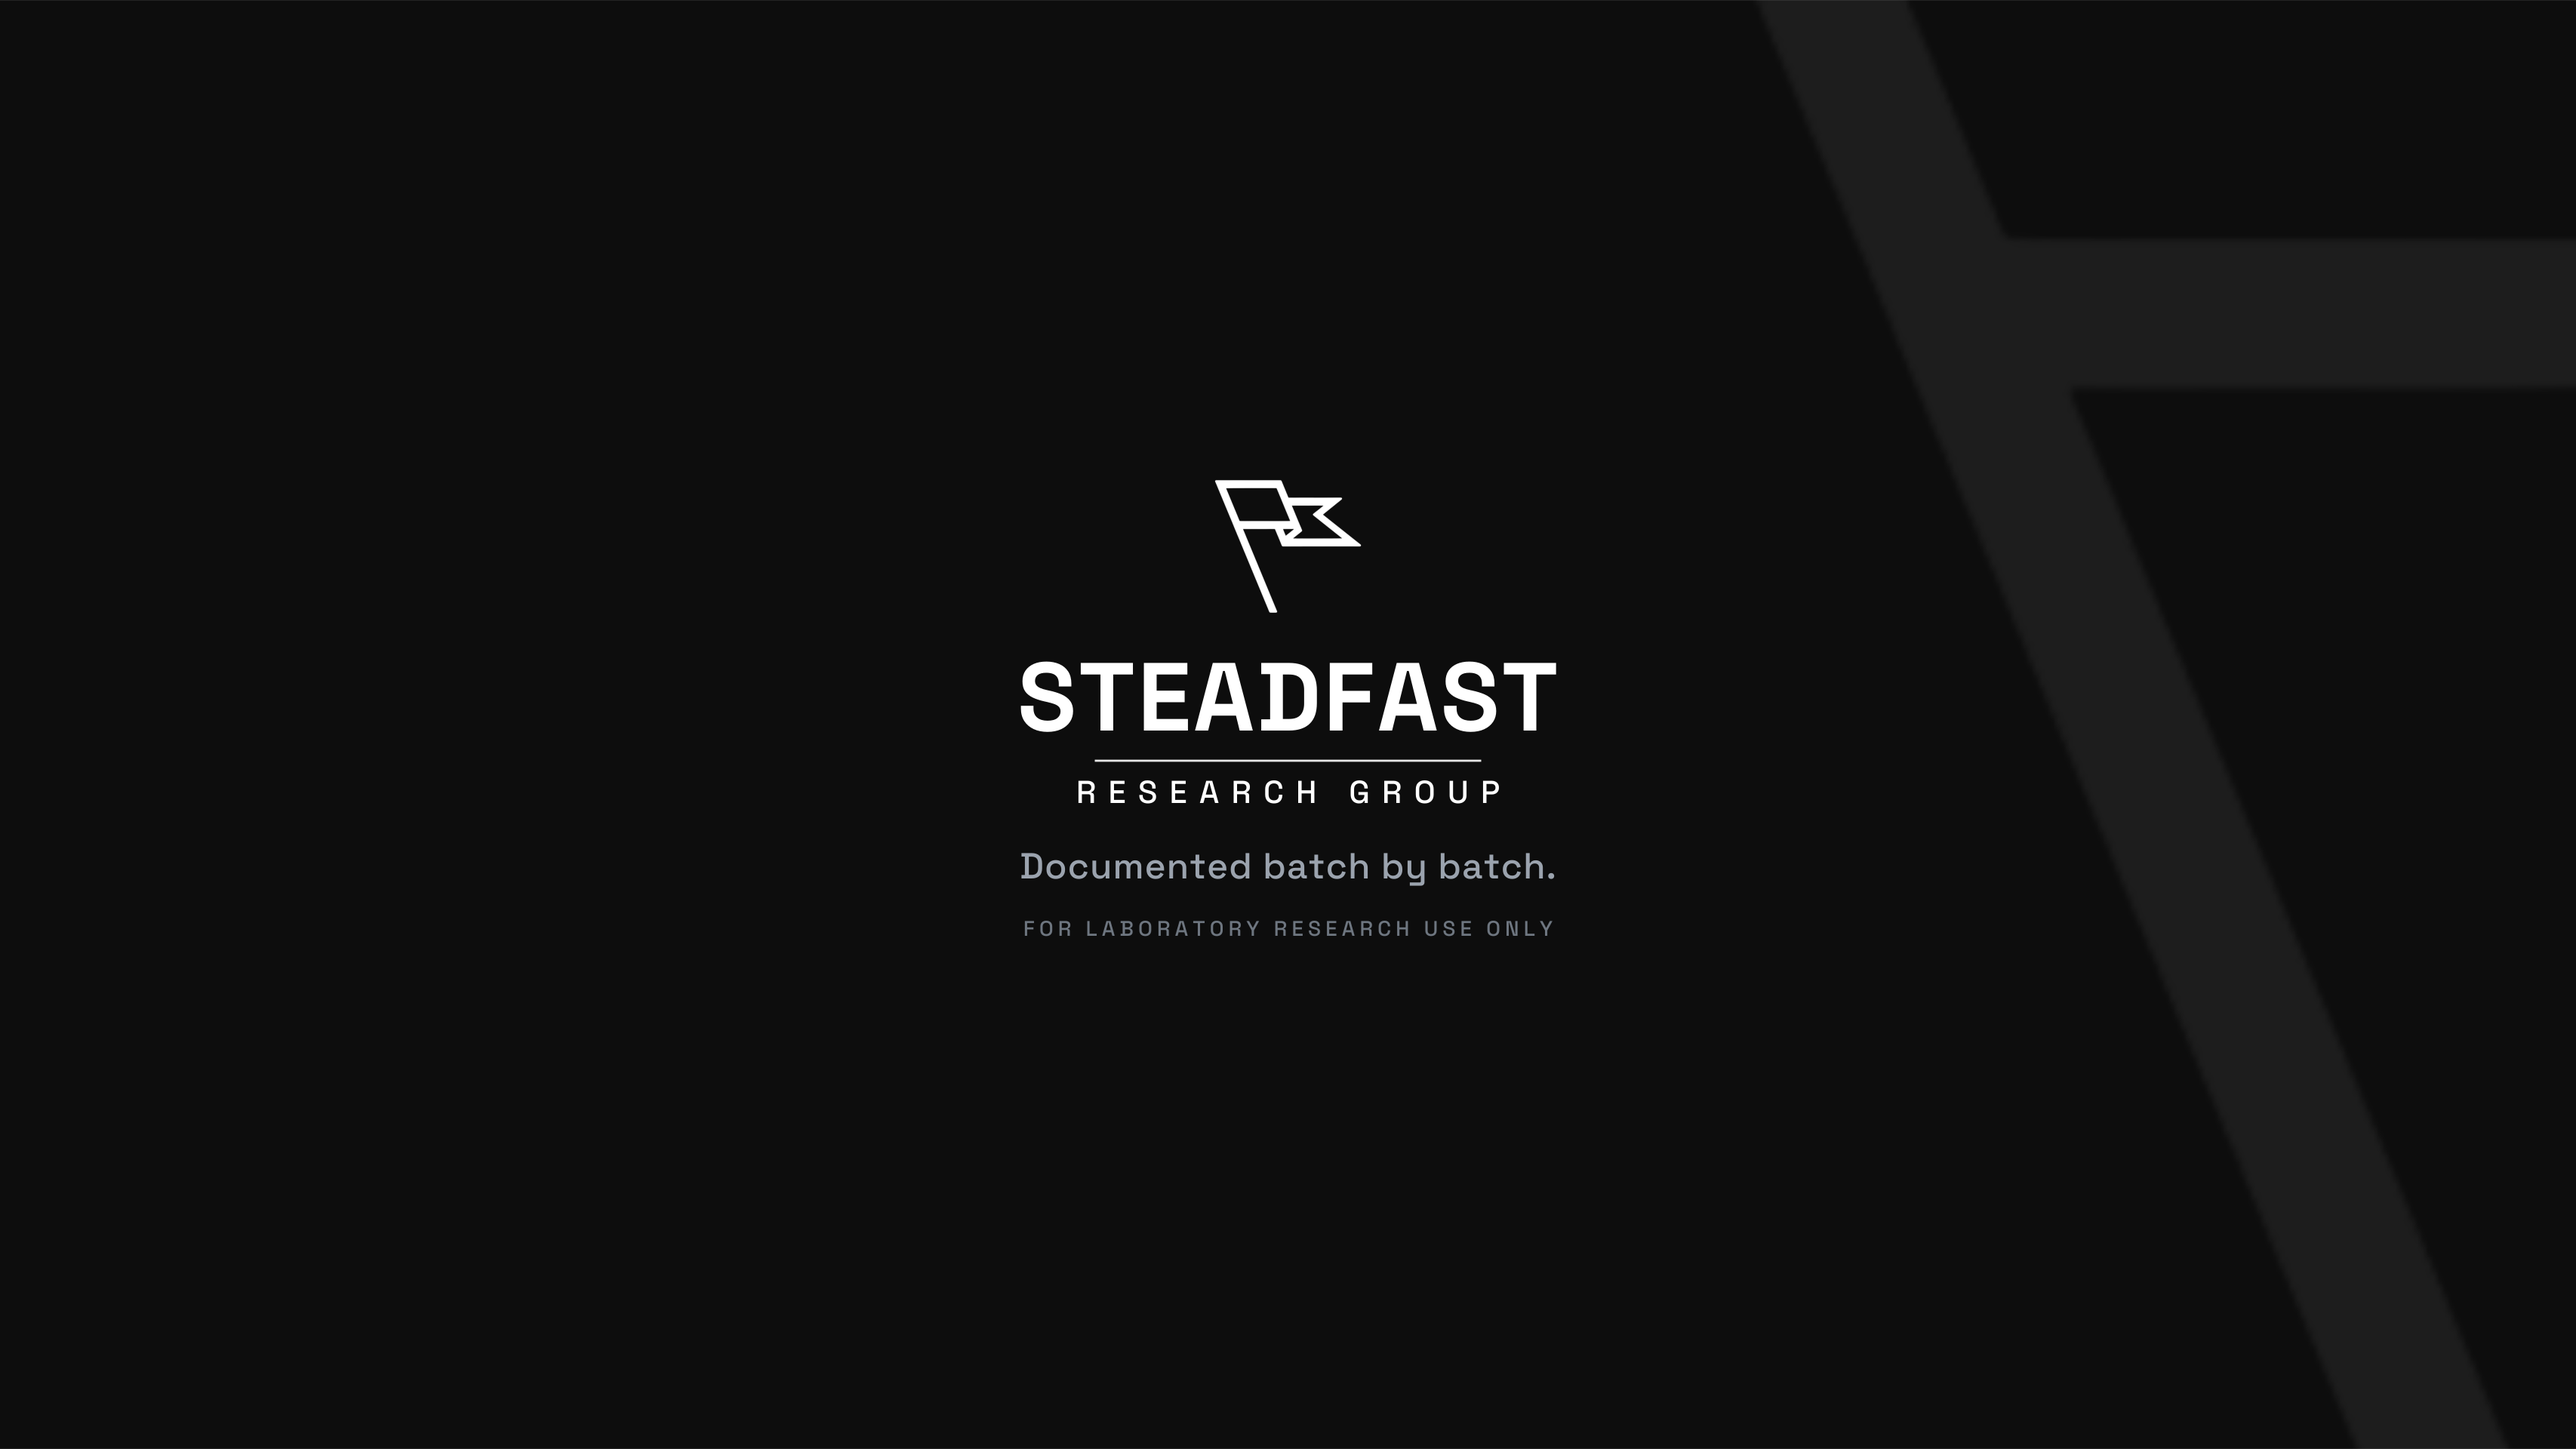
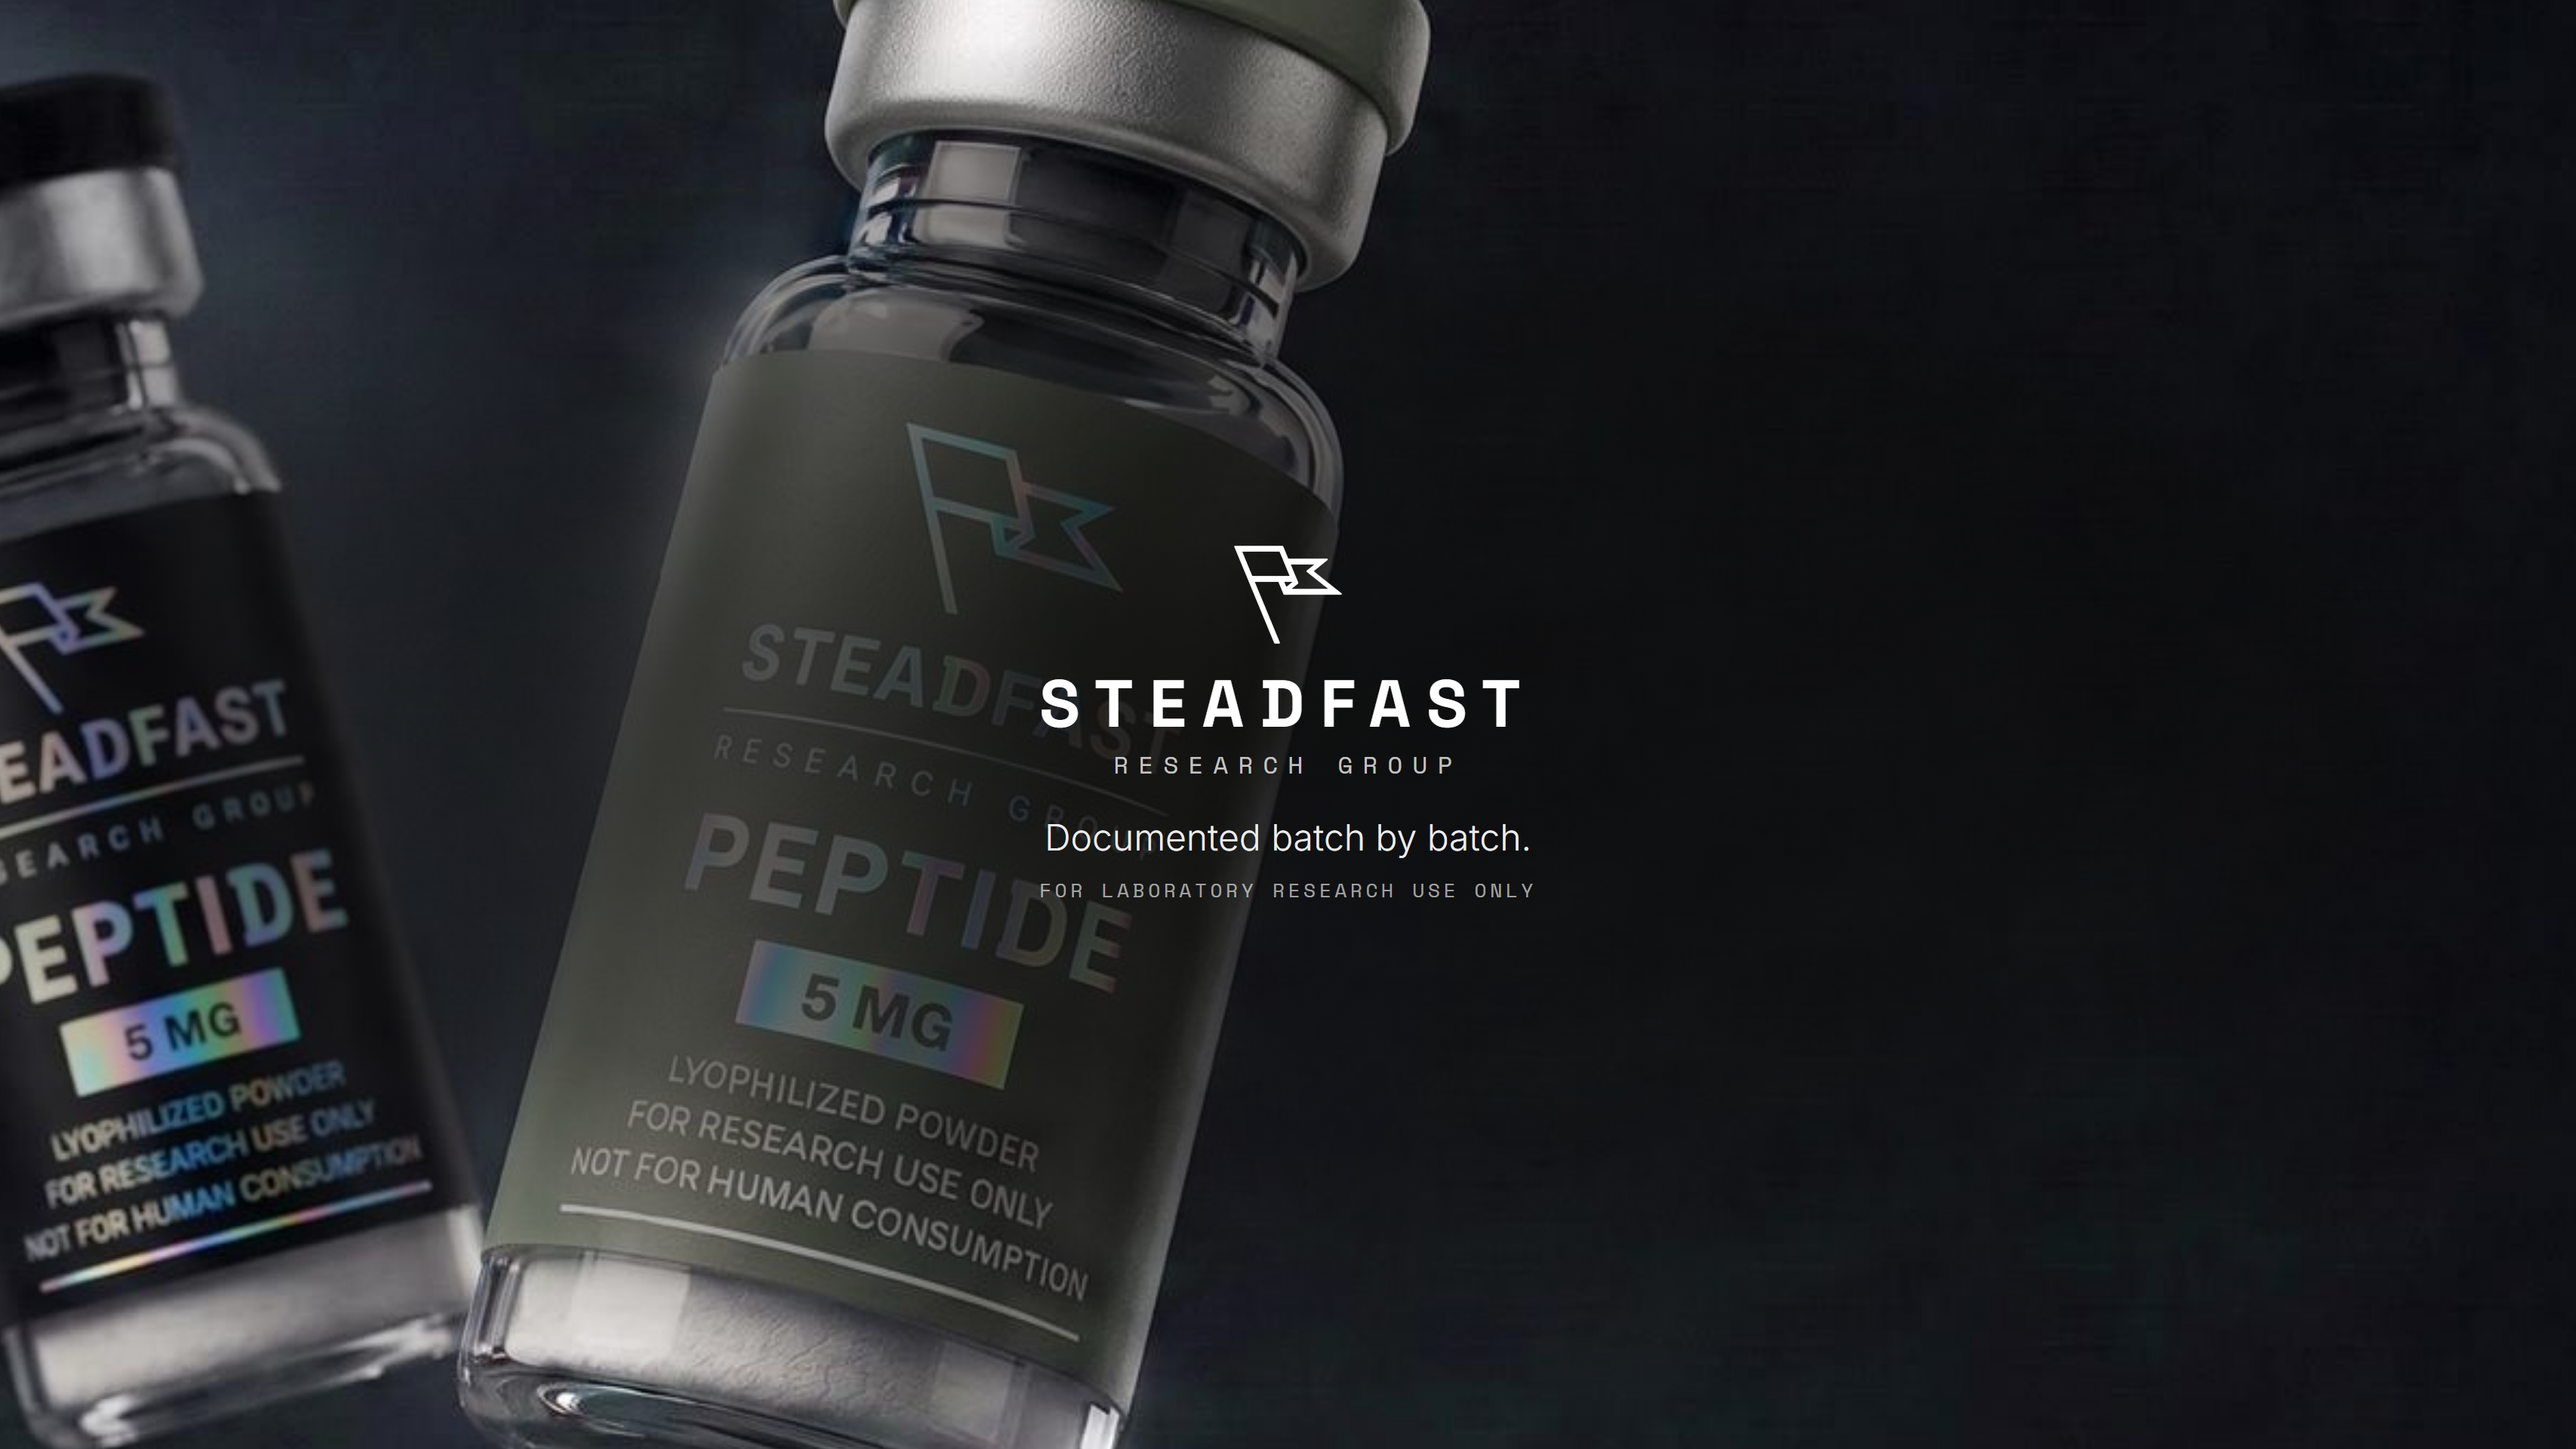
Platform headers carry the website product photography
Blake's ask on the social kit: the headers should show the products, like the
images on the website. All twelve (FB / LinkedIn / X / YouTube in the three
colorways) are regenerated from a new compositor at assets/social-src/ -
node assets/social-src/make-headers.mjs rebuilds them at the exact existing
filenames and dimensions, so the bible page needed no markup changes.

Photo per colorway: black rides range-duo (the dark two-vial hero), sage rides
lab-olive (the bench scene), white rides range-grid (the light collage). The
lockup, tagline and RUO line sit over a directional scrim; YouTube keeps
everything inside the centred safe area, with the photo translate-scaled so
the vial clears the text zone - object-position has no X slack when a photo
fills by width.

Also swept a leftover from Shayne's cold-chain ruling: the shipping highlight
cover was a SNOWFLAKE, which is a cold-shipping claim in icon form. It is now
a parcel outline, and the page label reads "Shipping - tracked".

diff --git a/assets/social-src/headers.html b/assets/social-src/headers.html
@@ -1,0 +1,115 @@
+<!doctype html>
+<html lang="en">
+<head>
+<meta charset="utf-8" />
+<title>SRG social header compositor</title>
+<link rel="preconnect" href="https://fonts.googleapis.com"><link rel="preconnect" href="https://fonts.gstatic.com" crossorigin>
+<link href="https://fonts.googleapis.com/css2?family=Inter:wght@300;400;500&family=Space+Grotesk:wght@500;600;700&family=Space+Mono:wght@400&display=swap" rel="stylesheet">
+<style>
+  /* Renders ONE asset at true pixel size, chosen by ?id=. export via
+     node assets/social-src/make-headers.mjs — Blake's ask (2026-08-07):
+     the platform headers should carry the product photography from the
+     website rather than flat typographic grounds. */
+  html,body{margin:0;padding:0;background:#fff;overflow:hidden}
+  #c{position:relative;overflow:hidden;font-family:"Space Grotesk",sans-serif;display:flex}
+  #c img.ph{position:absolute;inset:0;width:100%;height:100%;object-fit:cover}
+  #c .scrim{position:absolute;inset:0}
+
+  /* lockup block */
+  .lk{position:relative;z-index:2;display:flex;flex-direction:column;justify-content:center}
+  .lk .flag{background-repeat:no-repeat;background-size:contain;background-position:left center}
+  .lk b{font-weight:700;letter-spacing:.24em;line-height:1}
+  .lk small{display:block;font-family:"Space Mono",monospace;letter-spacing:.42em;opacity:.75;font-weight:400}
+  .lk .tag{font-family:"Inter",sans-serif;font-weight:300;opacity:.92}
+  .lk .ruo{font-family:"Space Mono",monospace;letter-spacing:.18em;text-transform:uppercase;opacity:.6}
+
+  /* highlight cover (1440x1440): plain ground + one stroked icon */
+  .hl{width:100%;height:100%;display:flex;align-items:center;justify-content:center}
+  .hl svg{width:34%;height:34%}
+</style>
+</head>
+<body>
+<div id="c"></div>
+<script>
+const FLAG_WHITE = '/assets/logos-grotesk/srg-grotesk-white-icon.png';
+const FLAG_BLACK = '/assets/logos-grotesk/srg-grotesk-black-icon.png';
+
+/* colorway recipes — text + scrim tuned per photo */
+/* safeShift: framing for the YouTube banner, whose text MUST sit in the
+   centred safe area — the photo's vial has to move out of the middle there,
+   or the lockup lands on top of the product. object-position can't do it
+   (these photos fill by width, so X has no slack); a translate+scale can. */
+const WAYS = {
+  black: { photo:'/assets/social-src/range-duo.jpg',  pos:'62% 40%', fg:'#FFFFFF', flag:FLAG_WHITE,
+           safeShift:'transform:translateX(-27%) scale(1.6);transform-origin:center',
+           scrim:'linear-gradient(90deg, rgba(10,10,10,.86) 0%, rgba(10,10,10,.55) 34%, rgba(10,10,10,0) 62%)' },
+  sage:  { photo:'/assets/social-src/lab-olive.jpg',  pos:'68% 30%', fg:'#FFFFFF', flag:FLAG_WHITE,
+           safeShift:'transform:translateX(29%) scale(1.64);transform-origin:center',
+           scrim:'linear-gradient(90deg, rgba(35,42,28,.88) 0%, rgba(35,42,28,.58) 36%, rgba(35,42,28,0) 64%)' },
+  white: { photo:'/assets/social-src/range-grid.jpg', pos:'50% 32%', fg:'#14150F', flag:FLAG_BLACK,
+           safeShift:'',
+           scrim:'linear-gradient(90deg, rgba(245,243,236,.94) 0%, rgba(245,243,236,.72) 34%, rgba(245,243,236,.06) 62%)' }
+};
+
+/* platform canvases — EXACT dimensions of the files being replaced */
+const PLATFORMS = {
+  fb:  { w:2187, h:832,  pad:120, flagH:110, brand:74,  sub:26, tag:40, ruo:22 },
+  li:  { w:4224, h:1056, pad:200, flagH:140, brand:96,  sub:34, tag:52, ruo:28 },
+  x:   { w:4000, h:1333, pad:220, flagH:150, brand:104, sub:36, tag:56, ruo:30 },
+  yt:  { w:3413, h:1920, pad:0,   flagH:130, brand:88,  sub:32, tag:48, ruo:26, safe:true }
+};
+
+function header(p, wname) {
+  const w = WAYS[wname];
+  const c = document.getElementById('c');
+  c.style.width = p.w + 'px'; c.style.height = p.h + 'px';
+
+  /* YouTube shows only the centered safe area on desktop — everything
+     readable lives inside it, centred; the photo still fills the canvas. */
+  const safeW = Math.round(p.w * 0.604), safeH = Math.round(p.h * 0.294);
+  const inner = p.safe
+    ? `display:flex;flex-direction:column;align-items:center;justify-content:center;text-align:center;
+       width:${safeW}px;height:${safeH}px;margin:auto;`
+    : `padding-left:${p.pad}px;max-width:${Math.round(p.w * 0.52)}px;`;
+
+  c.innerHTML = `
+    <img class="ph" src="${w.photo}" style="object-position:${w.pos};${p.safe ? w.safeShift : ''}" />
+    <div class="scrim" style="background:${p.safe
+      ? 'radial-gradient(64% 48% at 50% 50%, ' + (wname==='white' ? 'rgba(245,243,236,.96)' : 'rgba(12,12,12,.88)') + ' 0%, ' + (wname==='white' ? 'rgba(245,243,236,.68)' : 'rgba(12,12,12,.55)') + ' 62%, rgba(0,0,0,0) 100%)'
+      : w.scrim}"></div>
+    <div class="lk" style="color:${w.fg};${inner}">
+      <div class="flag" style="height:${p.flagH}px;width:100%;background-image:url(${w.flag});${p.safe ? 'background-position:center;' : ''}"></div>
+      <b style="font-size:${p.brand}px;margin-top:${Math.round(p.flagH * 0.28)}px">STEADFAST</b>
+      <small style="font-size:${p.sub}px;margin-top:12px">RESEARCH GROUP</small>
+      <div class="tag" style="font-size:${p.tag}px;margin-top:${Math.round(p.tag * 0.9)}px">Documented batch by batch.</div>
+      <div class="ruo" style="font-size:${p.ruo}px;margin-top:${Math.round(p.ruo * 0.8)}px">For laboratory research use only</div>
+    </div>`;
+}
+
+/* Shipping highlight: parcel icon replaces the snowflake — a snowflake reads
+   as a cold-shipping claim, and Shayne's ruling is that nothing ships cold. */
+const HL_GROUNDS = { black:{bg:'#141414', fg:'#FFFFFF'}, sage:{bg:'#869274', fg:'#FFFFFF'}, white:{bg:'#F4F2EC', fg:'#141414'} };
+function highlight(wname) {
+  const g = HL_GROUNDS[wname];
+  const c = document.getElementById('c');
+  c.style.width = '1440px'; c.style.height = '1440px'; c.style.background = g.bg;
+  c.innerHTML = `<div class="hl">
+    <svg viewBox="0 0 100 100" fill="none" stroke="${g.fg}" stroke-width="4.6" stroke-linecap="round" stroke-linejoin="round">
+      <path d="M50 14 88 32v36L50 86 12 68V32Z"/>
+      <path d="M12 32l38 18 38-18M50 50v36"/>
+      <path d="M31 23l38 18v14"/>
+    </svg></div>`;
+}
+
+const q = new URLSearchParams(location.search);
+const id = q.get('id') || 'fb-black';           // e.g. fb-black | yt-sage | hl-white
+const [kind, way] = id.split('-');
+if (kind === 'hl') highlight(way); else header(PLATFORMS[kind], way);
+
+const ready = () => { document.title = 'SHOT-READY-' + id; };
+Promise.all([document.fonts.ready,
+  Promise.all([...document.images].map(im => im.complete ? 1 : new Promise(r => { im.onload = im.onerror = r; })))
+]).then(() => requestAnimationFrame(ready));
+</script>
+</body>
+</html>

diff --git a/index.html b/index.html
@@ -891,7 +891,7 @@
     <div class="soccard"><img src="assets/social/srg-highlight-vial-black.png" alt="Products" loading="lazy" /><div class="scap"><span>Products &middot; vial</span><a href="assets/social/srg-highlight-vial-black.png" download>PNG</a></div></div>
     <div class="soccard"><img src="assets/social/srg-highlight-flask-black.png" alt="Testing" loading="lazy" /><div class="scap"><span>Testing &middot; flask</span><a href="assets/social/srg-highlight-flask-black.png" download>PNG</a></div></div>
     <div class="soccard"><img src="assets/social/srg-highlight-coa-black.png" alt="COA" loading="lazy" /><div class="scap"><span>COA &middot; document</span><a href="assets/social/srg-highlight-coa-black.png" download>PNG</a></div></div>
-    <div class="soccard"><img src="assets/social/srg-highlight-coldchain-black.png" alt="Shipping" loading="lazy" /><div class="scap"><span>Shipping &middot; cold chain</span><a href="assets/social/srg-highlight-coldchain-black.png" download>PNG</a></div></div>
+    <div class="soccard"><img src="assets/social/srg-highlight-coldchain-black.png" alt="Shipping" loading="lazy" /><div class="scap"><span>Shipping &middot; tracked</span><a href="assets/social/srg-highlight-coldchain-black.png" download>PNG</a></div></div>
     <div class="soccard"><img src="assets/social/srg-highlight-verified-black.png" alt="Verified" loading="lazy" /><div class="scap"><span>Verified &middot; shield</span><a href="assets/social/srg-highlight-verified-black.png" download>PNG</a></div></div>
   </div>
   <h3 class="socsub">Instagram highlight covers &middot; sage</h3>
@@ -900,7 +900,7 @@
     <div class="soccard"><img src="assets/social/srg-highlight-vial-sage.png" alt="Products" loading="lazy" /><div class="scap"><span>Products &middot; vial</span><a href="assets/social/srg-highlight-vial-sage.png" download>PNG</a></div></div>
     <div class="soccard"><img src="assets/social/srg-highlight-flask-sage.png" alt="Testing" loading="lazy" /><div class="scap"><span>Testing &middot; flask</span><a href="assets/social/srg-highlight-flask-sage.png" download>PNG</a></div></div>
     <div class="soccard"><img src="assets/social/srg-highlight-coa-sage.png" alt="COA" loading="lazy" /><div class="scap"><span>COA &middot; document</span><a href="assets/social/srg-highlight-coa-sage.png" download>PNG</a></div></div>
-    <div class="soccard"><img src="assets/social/srg-highlight-coldchain-sage.png" alt="Shipping" loading="lazy" /><div class="scap"><span>Shipping &middot; cold chain</span><a href="assets/social/srg-highlight-coldchain-sage.png" download>PNG</a></div></div>
+    <div class="soccard"><img src="assets/social/srg-highlight-coldchain-sage.png" alt="Shipping" loading="lazy" /><div class="scap"><span>Shipping &middot; tracked</span><a href="assets/social/srg-highlight-coldchain-sage.png" download>PNG</a></div></div>
     <div class="soccard"><img src="assets/social/srg-highlight-verified-sage.png" alt="Verified" loading="lazy" /><div class="scap"><span>Verified &middot; shield</span><a href="assets/social/srg-highlight-verified-sage.png" download>PNG</a></div></div>
   </div>
   <h3 class="socsub">Instagram highlight covers &middot; white</h3>
@@ -909,7 +909,7 @@
     <div class="soccard"><img src="assets/social/srg-highlight-vial-white.png" alt="Products" loading="lazy" /><div class="scap"><span>Products &middot; vial</span><a href="assets/social/srg-highlight-vial-white.png" download>PNG</a></div></div>
     <div class="soccard"><img src="assets/social/srg-highlight-flask-white.png" alt="Testing" loading="lazy" /><div class="scap"><span>Testing &middot; flask</span><a href="assets/social/srg-highlight-flask-white.png" download>PNG</a></div></div>
     <div class="soccard"><img src="assets/social/srg-highlight-coa-white.png" alt="COA" loading="lazy" /><div class="scap"><span>COA &middot; document</span><a href="assets/social/srg-highlight-coa-white.png" download>PNG</a></div></div>
-    <div class="soccard"><img src="assets/social/srg-highlight-coldchain-white.png" alt="Shipping" loading="lazy" /><div class="scap"><span>Shipping &middot; cold chain</span><a href="assets/social/srg-highlight-coldchain-white.png" download>PNG</a></div></div>
+    <div class="soccard"><img src="assets/social/srg-highlight-coldchain-white.png" alt="Shipping" loading="lazy" /><div class="scap"><span>Shipping &middot; tracked</span><a href="assets/social/srg-highlight-coldchain-white.png" download>PNG</a></div></div>
     <div class="soccard"><img src="assets/social/srg-highlight-verified-white.png" alt="Verified" loading="lazy" /><div class="scap"><span>Verified &middot; shield</span><a href="assets/social/srg-highlight-verified-white.png" download>PNG</a></div></div>
   </div>
 
